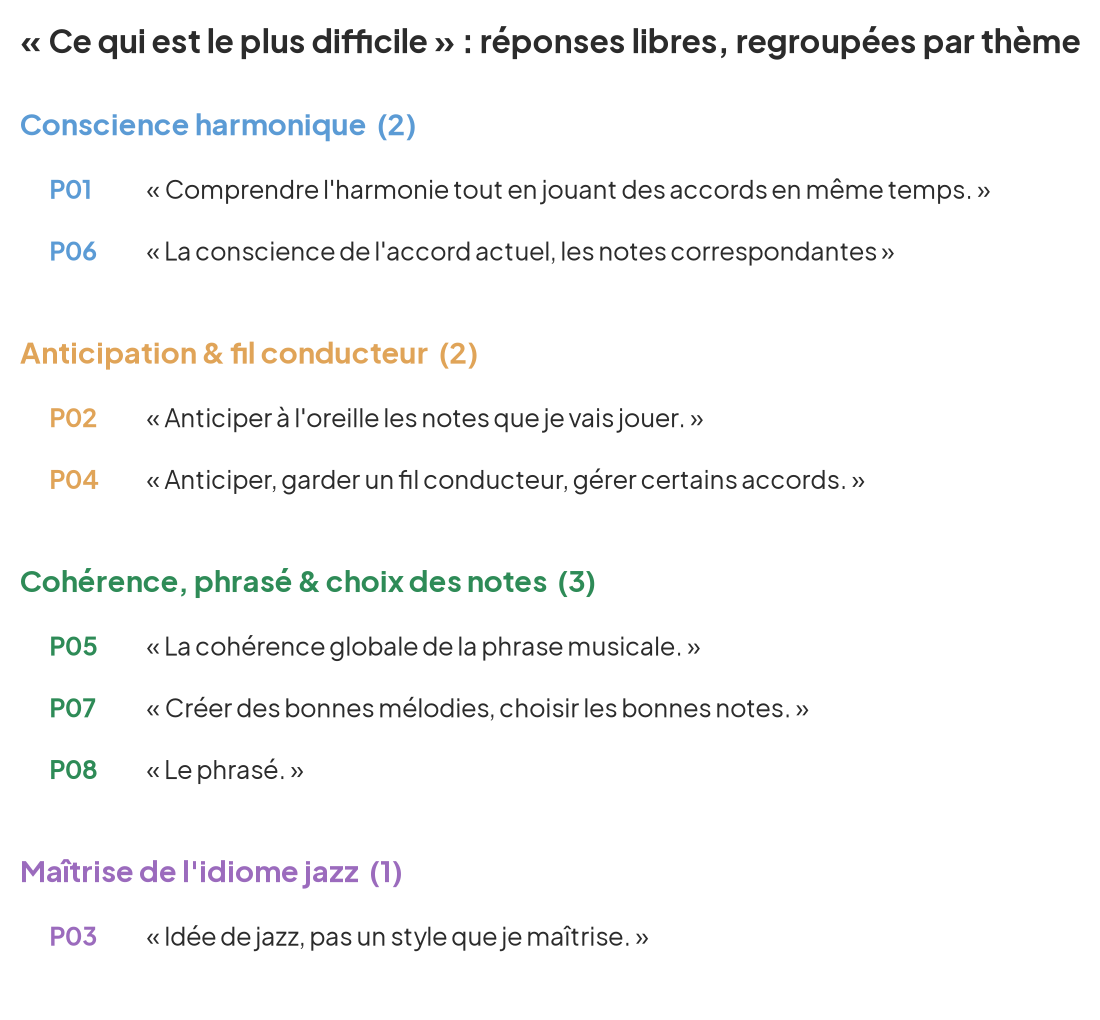
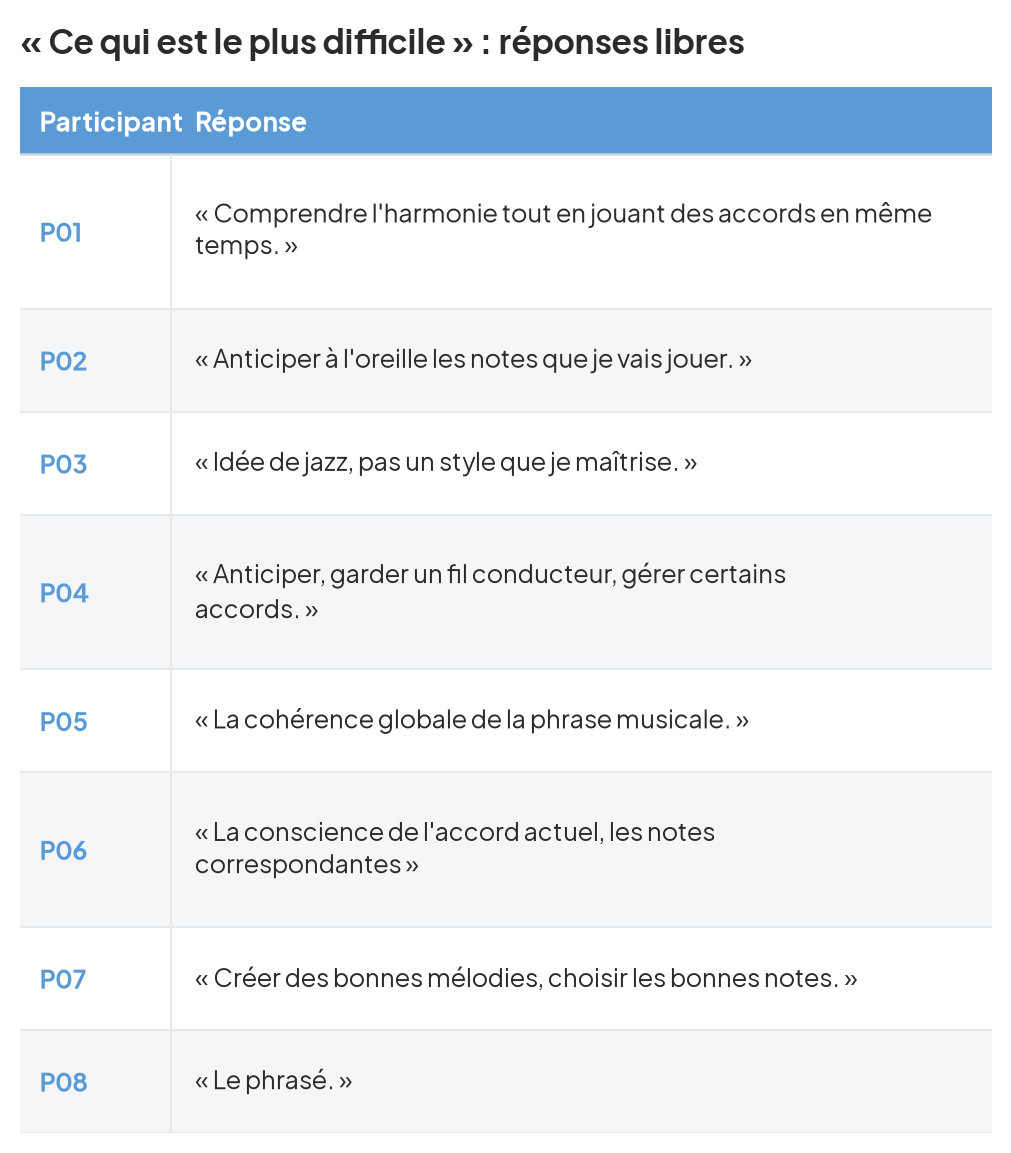
fix: made the "Ce qui est le plus difficile" chart better

diff --git a/rapport/stats/profil.py b/rapport/stats/profil.py
@@ -14,7 +14,7 @@ SORTIES (une figure par idée, comme present.py) :
   figures/profil_aisance.png      heatmap aisance/pratique + bande « difficulté à improviser »
   figures/profil_formation.png    formation au piano (conservatoire / cours particuliers)
   figures/profil_constantes.png   constantes en badges (daltonisme, piano augmenté)
-  figures/profil_difficultes.png  verbatims « ce qui est le plus difficile », par thème
+  figures/profil_difficultes.png  verbatims « ce qui est le plus difficile », en tableau
 
 Choix de design : pas de camembert par participant (à n = 8, une part = 12,5 %, et l'angle
 se lit mal) ; on garde un seul donut pour l'instrument (lecture part-du-tout naturelle) et on
@@ -124,17 +124,6 @@ IREAL_SHORT = {
     "Régulièrement": "Régul.",
     "Très régulièrement": "Très\nrégul.",
 }
-
-# Codage thématique de la question ouverte « ce qui est le plus difficile ». PREMIÈRE PASSE,
-# à ajuster selon ta propre analyse thématique : thème -> (couleur, [participants]).
-# L'ordre des entrées fixe l'ordre d'affichage des groupes.
-DIFF_THEMES = {
-    "Conscience harmonique": ("#5b9bd5", ["P01", "P06"]),
-    "Anticipation & fil conducteur": ("#e0a458", ["P02", "P04"]),
-    "Cohérence, phrasé & choix des notes": ("#2e8b57", ["P05", "P07", "P08"]),
-    "Maîtrise de l'idiome jazz": ("#9b6bbd", ["P03"]),
-}
-
 
 def load(path):
     with path.open(encoding="utf-8-sig", newline="") as fh:
@@ -511,59 +500,69 @@ def fig_constantes(rows, path):
 
 
 # =========================================================================================
-# Figure 4 — « ce qui est le plus difficile » : verbatims regroupés par thème (qualitatif)
+# Figure 4 — « ce qui est le plus difficile » : verbatims en tableau (qualitatif, à plat)
 # =========================================================================================
 def fig_difficultes(rows, path):
-    quotes = {r["participant"]: (r["plus_difficile_texte"] or "").strip() for r in rows}
-    # On construit la liste des éléments à empiler, avec leur hauteur en « lignes ».
-    items = []  # (kind, *payload, units)
-    for theme, (color, pids) in DIFF_THEMES.items():
-        items.append(("header", theme, color, len(pids), 1.1))
-        for p in pids:
-            wrapped = textwrap.fill(quotes.get(p, ""), width=70)
-            items.append(("quote", p, wrapped, color, wrapped.count("\n") + 1))
-        items.append(("gap", 0.6))
-    total = sum(it[-1] for it in items)
+    # Tableau simple, une ligne par participant dans l'ordre P01..P08. Pas de regroupement
+    # thématique : les catégories forçaient une lecture discutable, on laisse le verbatim
+    # parler et l'analyse thématique vit dans le texte du rapport, pas dans la figure.
+    pid = [r["participant"] for r in rows]
+    wrapped = [
+        textwrap.fill((r["plus_difficile_texte"] or "").strip(), width=58) for r in rows
+    ]
+    lines = [w.count("\n") + 1 for w in wrapped]  # hauteur de texte, en « lignes »
 
-    fig, ax = plt.subplots(figsize=(FIG_WIDTH, 0.9 + total * 0.34))
+    PAD = 0.5  # marge haut+bas d'une cellule, en demi-lignes
+    HEADER_H = 1.3
+    row_h = [n + 2 * PAD for n in lines]
+    total = HEADER_H + sum(row_h)
+
+    X_PID = 0.02  # colonne « participant »
+    X_TXT = 0.18  # colonne « réponse » (assez large pour l'en-tête « Participant »)
+    X_DIV = 0.155  # filet vertical séparant les deux colonnes
+
+    fig, ax = plt.subplots(figsize=(FIG_WIDTH, 0.7 + total * 0.30))
     ax.set_xlim(0, 1)
     ax.set_ylim(total, 0)  # y croît vers le bas
     ax.axis("off")
     ax.set_title(
-        "« Ce qui est le plus difficile » : réponses libres, regroupées par thème",
-        fontsize=11.5,
+        "« Ce qui est le plus difficile » : réponses libres",
+        fontsize=12,
         loc="left",
         pad=12,
     )
-    y = 0.3
-    for kind, *rest in items:
-        if kind == "header":
-            theme, color, k, u = rest
-            ax.text(
-                0.0,
-                y,
-                f"{theme}  ({k})",
-                color=color,
-                fontsize=10.5,
-                fontweight="bold",
-                va="top",
-            )
-            y += u
-        elif kind == "quote":
-            pid, wrapped, color, u = rest
-            ax.text(0.03, y, pid, color=color, fontsize=9, fontweight="bold", va="top")
-            ax.text(
-                0.13,
-                y,
-                f"« {wrapped} »",
-                color=INK,
-                fontsize=9,
-                style="italic",
-                va="top",
-            )
-            y += u
-        else:  # gap
-            y += rest[-1]
+
+    # En-tête bleu.
+    ax.add_patch(Rectangle((0, 0), 1, HEADER_H, facecolor=PIANO_BLUE, edgecolor="none"))
+    ax.text(
+        X_PID, HEADER_H / 2, "Participant", color="white", fontsize=9.5,
+        fontweight="bold", va="center",
+    )
+    ax.text(
+        X_TXT, HEADER_H / 2, "Réponse", color="white", fontsize=9.5,
+        fontweight="bold", va="center",
+    )
+
+    # Lignes : fond alterné pour suivre la ligne sur toute la largeur.
+    y = HEADER_H
+    for i, (p, w, h) in enumerate(zip(pid, wrapped, row_h)):
+        if i % 2 == 1:
+            ax.add_patch(Rectangle((0, y), 1, h, facecolor="#f4f6f8", edgecolor="none"))
+        cy = y + h / 2
+        ax.text(X_PID, cy, p, color=PIANO_BLUE, fontsize=9, fontweight="bold", va="center")
+        ax.text(
+            X_TXT, cy, f"« {w} »", color=INK, fontsize=9, style="italic",
+            va="center", linespacing=1.05,
+        )
+        y += h
+
+    # Filets horizontaux discrets + filet vertical entre les deux colonnes (corps seul).
+    ax.hlines(HEADER_H, 0, 1, color="#cfd6dc", lw=0.9)
+    yy = HEADER_H
+    for h in row_h:
+        yy += h
+        ax.hlines(yy, 0, 1, color="#e6eaed", lw=0.7)
+    ax.vlines(X_DIV, HEADER_H, total, color="#e6eaed", lw=0.7)
 
     fig.savefig(path, dpi=DPI, bbox_inches="tight")
     plt.close(fig)
@@ -591,7 +590,7 @@ def main():
     fig_constantes(rows, FIGS / "profil_constantes.png")
     print("[constantes] badges daltonisme + piano augmenté -> profil_constantes.png")
     fig_difficultes(rows, FIGS / "profil_difficultes.png")
-    print("[difficultés] verbatims regroupés par thème     -> profil_difficultes.png")
+    print("[difficultés] verbatims en tableau (P01..P08)    -> profil_difficultes.png")
     print(f"\nFigures dans {FIGS}\n")
 
 
